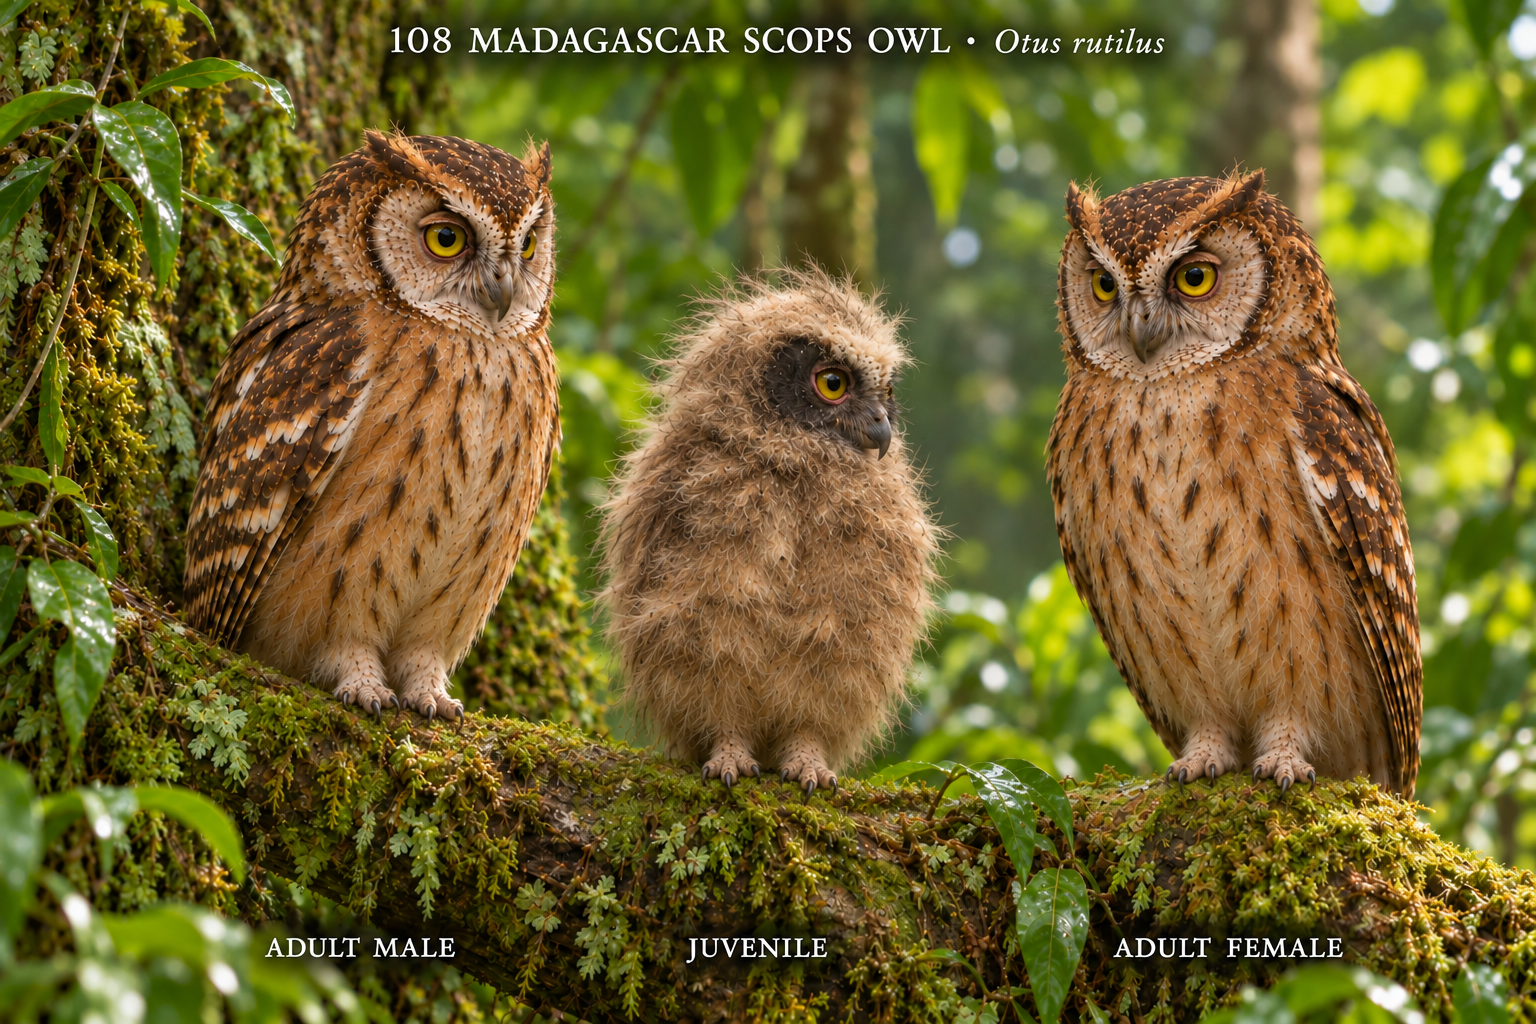
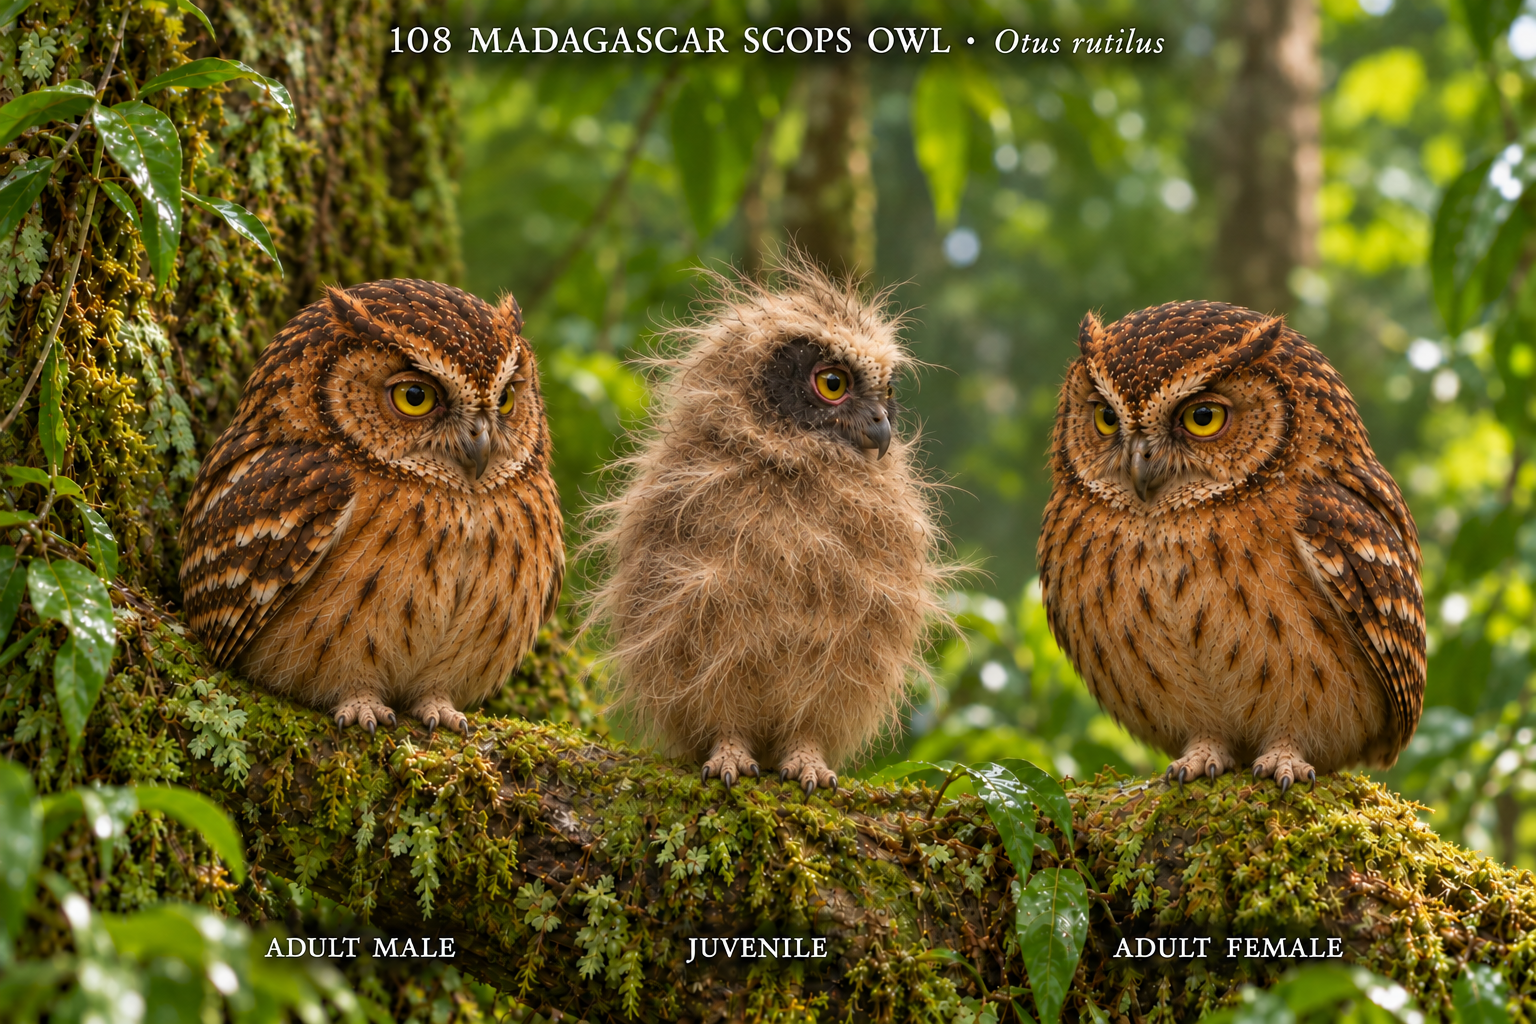
owl-pet: refine Otus rutilus v4

diff --git a/owl-pet/production/runs/20261106T130000+0800-cycle-2.md b/owl-pet/production/runs/20261106T130000+0800-cycle-2.md
@@ -28,3 +28,9 @@ Immediately selected the sequential next item after #107 ledger credit. Preserve
 - Preliminary full-image inspection: exact three roles/title/labels, compact feet, shortened adult tufts, dark eastern-humid-forest plumage, dark-mask down-rich juvenile and continuous branch support pass. Full/crop review remains required for body compactness, juvenile down texture and all six foot contacts.
 - Edit count: 1; scientific verification remains false.
 
+### IMAGE_GENERATED revision — 2026-11-06T13:14:00.000+08:00
+
+- Full/crop inspection of the first pass found adults still too tall and pale-faced and juvenile down too regularly curled. A second targeted edit compacted both adults, warmed/darkened the facial discs, further shortened tufts/legs and loosened the juvenile down texture.
[1 lines of base64/hex data omitted]
+- Edit count: 2. Full and crop review restarts from this revised image; science false.
+
